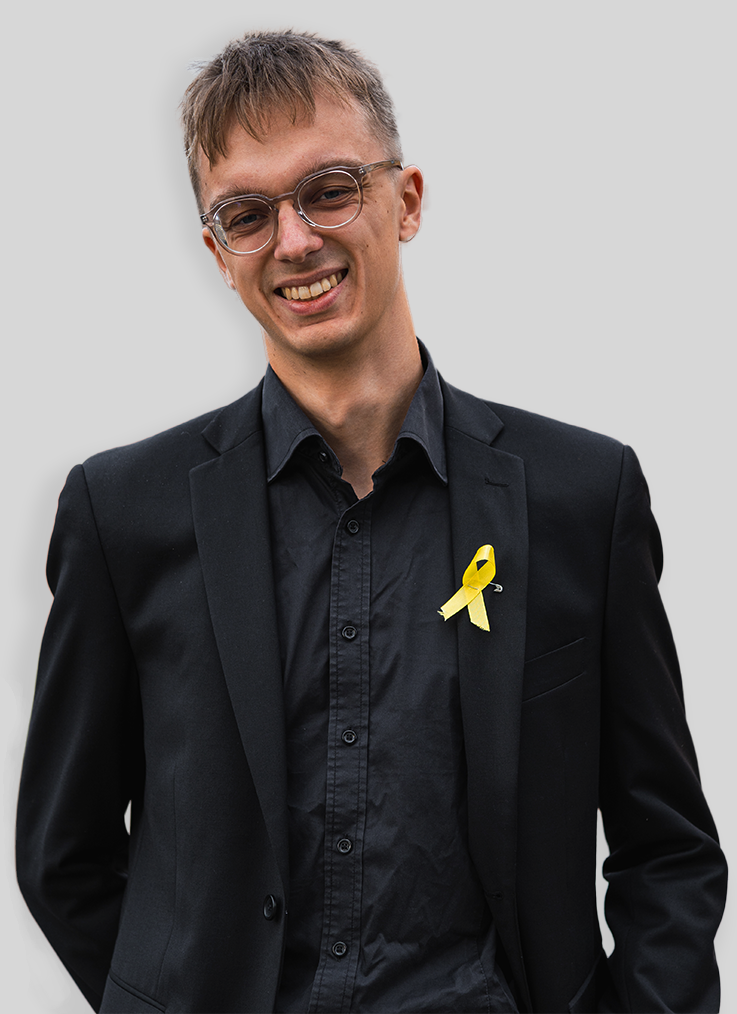
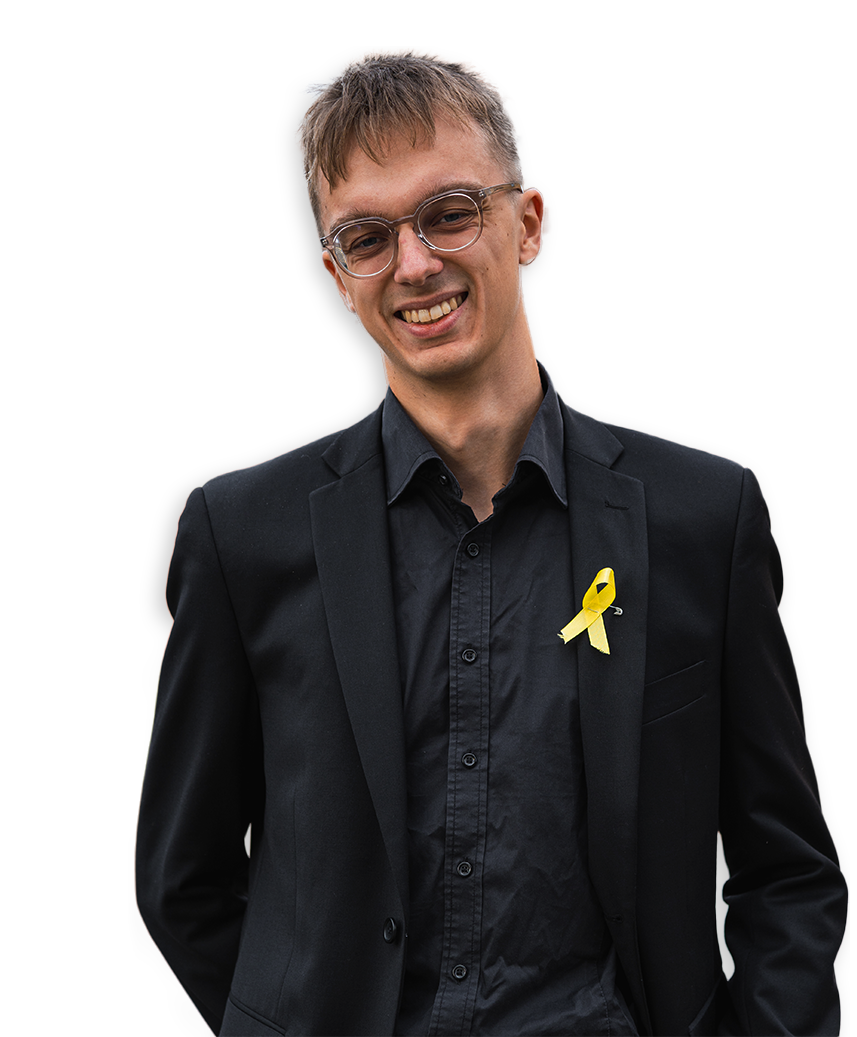
base for hero done

diff --git a/src/routes/hero.svelte b/src/routes/hero.svelte
@@ -20,12 +20,12 @@
 	>
 		<div class=" pt-[12%] w-3/4">
 			<h1 class="h1-variant mr-3">Hi!</h1>
-			<h1>My name is Albin. I design and build web apps and games.</h1>
+			<h1>My name is Albin.<br /> I design and build web apps<br /> and games.</h1>
 		</div>
-		<div class="flex flex-col w-fit gap-y-4 pl-16 pt-10">
+		<!-- <div class="flex flex-col w-fit gap-y-4 pl-16 pt-10">
 			<Button>Web</Button>
 			<Button>Games</Button>
 			<Button>Contact</Button>
-		</div>
+		</div> -->
 	</div>
 </section>

diff --git a/src/app.css b/src/app.css
@@ -7,7 +7,7 @@
   font-weight: 400;
   font-style: normal;
 
-  @apply bg-base;
+  @apply bg-white;
 }
 
 /* https://fonts.adobe.com/fonts/rotulo-variable?vf-font-size=100&vf-font=RotuloVariable-CompressedThin&vf-axes=slnt,0,wght,700,wdth,50 */
